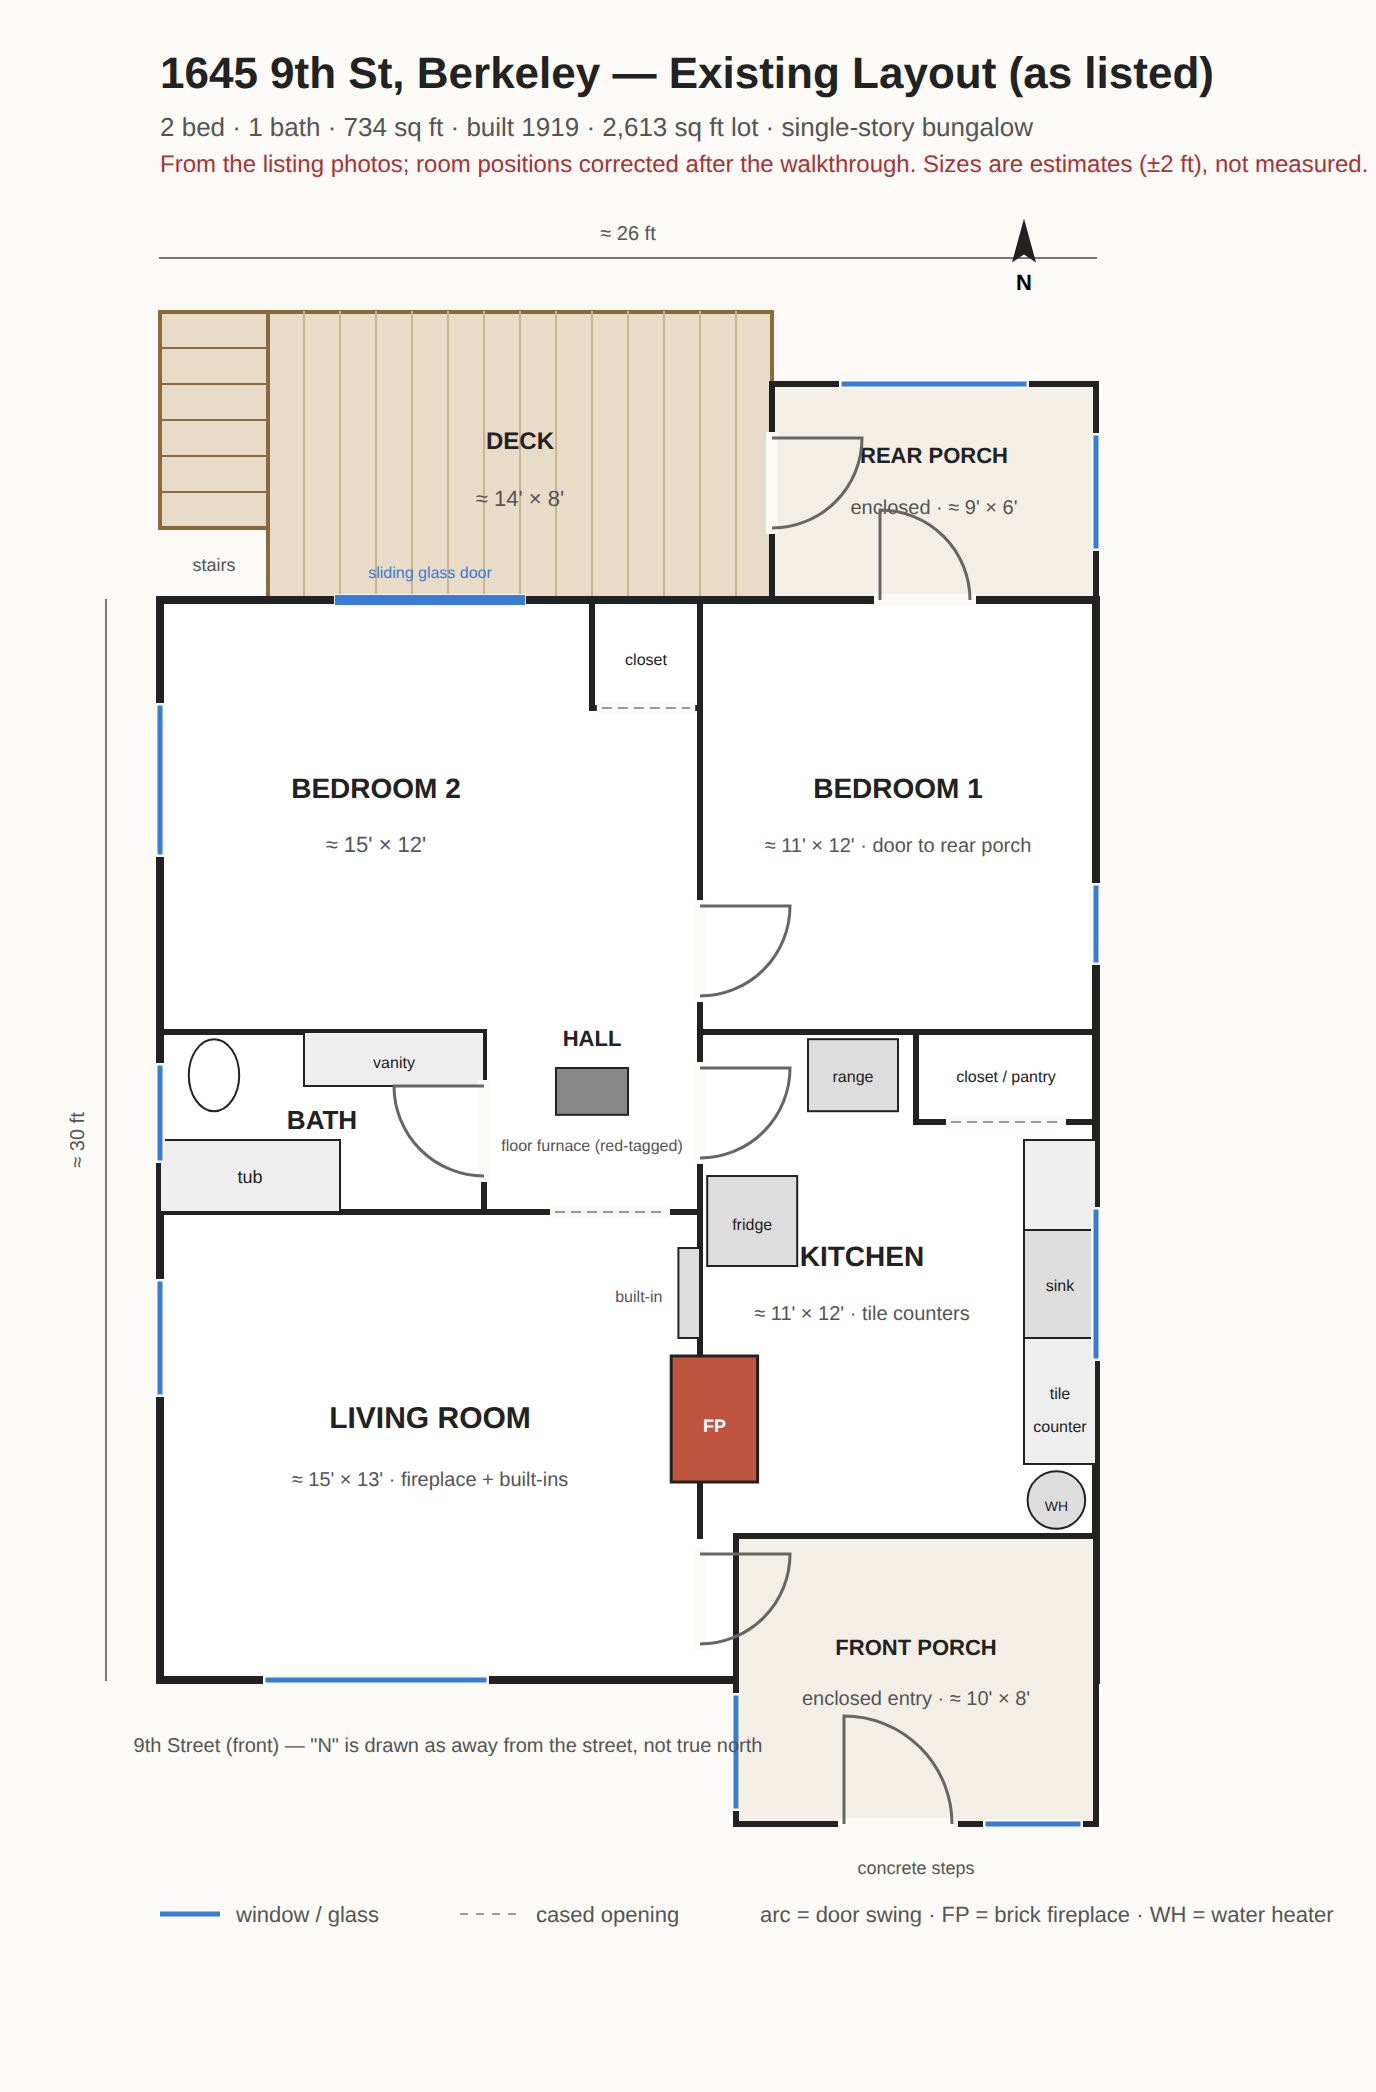
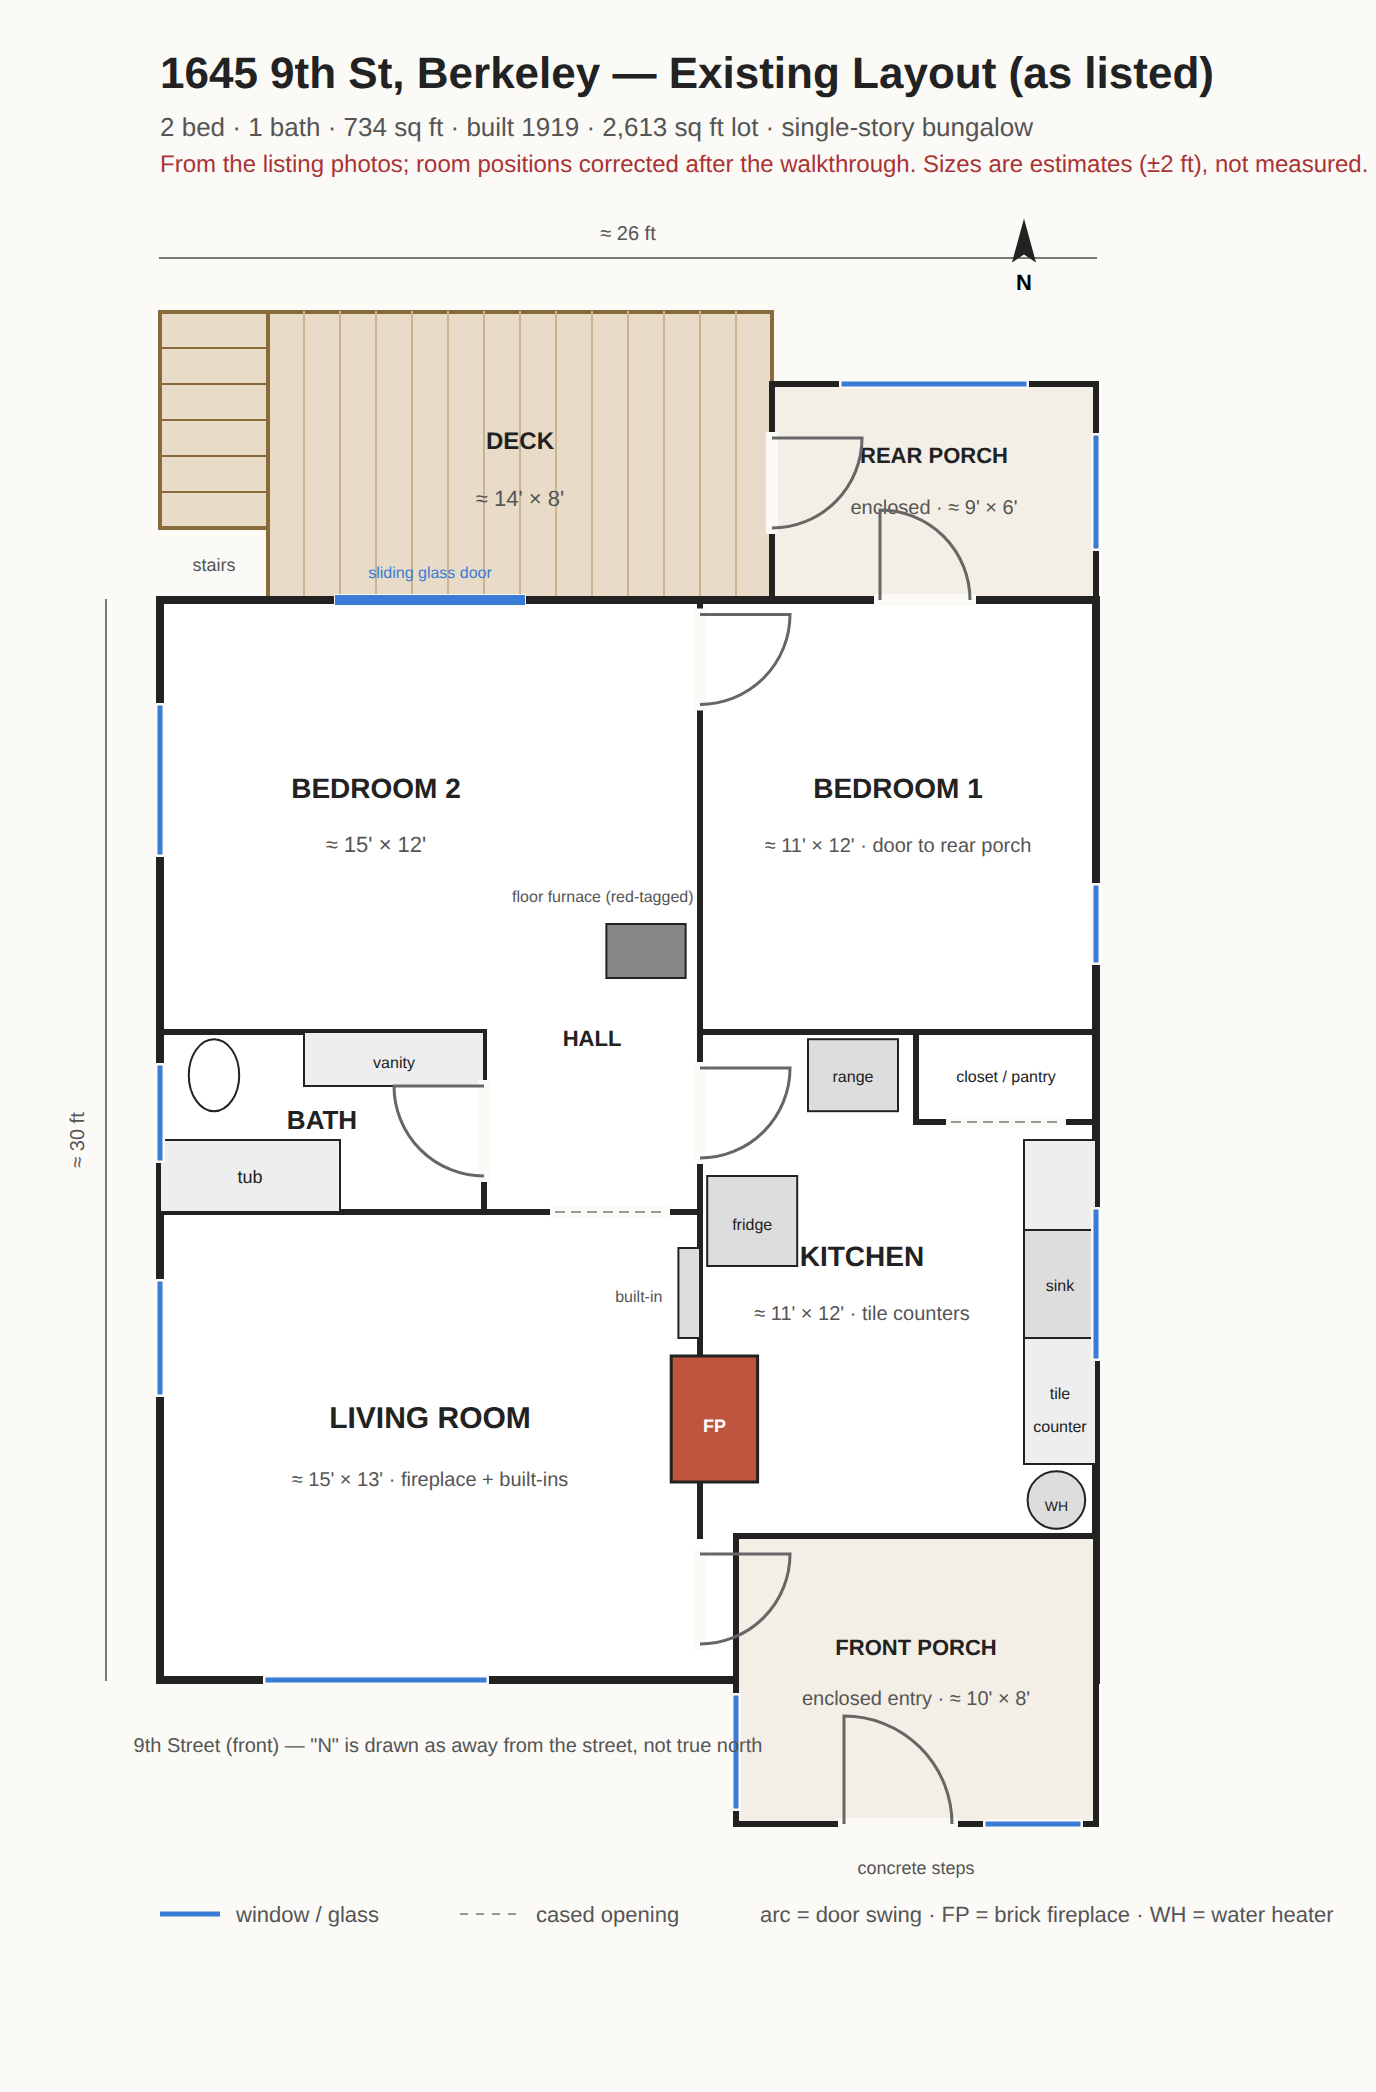
Rear rooms: corner door, furnace in bedroom 2, range on the sink wall
Listing photo 18 shows the door from bedroom 2 to the back room in the
rear-east corner, no closet in that corner, and the floor furnace grate
near bedroom 2's east wall.

- Both sheets: door between the rear rooms moved to the rear corner;
  bedroom 2's first-draft closet removed.
- Existing: floor furnace drawn in bedroom 2, not the hall.
- Proposed: range moved to the west wall with the sink (the corner door
  rules out a back-wall run); bedroom 2's new closet moved to the hall
  wall; mini-splits note moved into the hall.
- CLAUDE.md, index.html updated.

Claude-Session: https://claude.ai/code/session_01QP4ZkLkW7cUrZ9x3HXMY7H

diff --git a/index.html b/index.html
@@ -38,7 +38,7 @@ table{border-collapse:collapse;font-size:14px}td,th{padding:4px 12px 4px 0;text-
 <div class="notes">
 <strong>Proposed changes</strong>
 <ul>
-<li><strong>Kitchen moves to the rear-left room with the slider</strong> so it opens directly onto the deck. Becomes an eat-in kitchen, roughly 15 × 12, sharing a wet wall with the bath.</li>
+<li><strong>Kitchen moves to the rear-left room with the slider</strong> so it opens directly onto the deck. Becomes an eat-in kitchen, roughly 15 × 12, sharing a wet wall with the bath. Sink and range on the west wall; the existing corner door to the back room stays.</li>
 <li><strong>Old kitchen (front-right, roughly 11 × 12) becomes bedroom 1.</strong> The rear-right bedroom stays a bedroom, becomes bedroom 2, roughly 11 × 12, with a closet added. Floor furnace comes out; mini-splits instead.</li>
 <li><strong>Rear porch becomes laundry / mudroom</strong>, still opening onto the deck. Water heater relocates there out of the kitchen. Open question: whether it's entered from bedroom 2, the deck only, or both.</li>
 <li>Living room, bath, hall, and front porch unchanged in this pass.</li>

diff --git a/floor-plan/generate.py b/floor-plan/generate.py
@@ -41,7 +41,7 @@ def build(variant):
     out.append(f'<text x="{OX}" y="68" font-size="13" fill="#555">2 bed · 1 bath · 734 sq ft · built 1919 · 2,613 sq ft lot · single-story bungalow</text>')
     if proposed:
         out.append(f'<text x="{OX}" y="86" font-size="12" fill="#1a7a3c">Change: kitchen moves from the front-right room to the rear-left room with the slider, opening onto the deck.</text>')
-        out.append(f'<text x="{OX}" y="102" font-size="12" fill="#1a7a3c">Old kitchen → bedroom 1. Rear-right stays a bedroom (now 2) with a closet added. Floor furnace out, mini-splits in.</text>')
+        out.append(f'<text x="{OX}" y="102" font-size="12" fill="#1a7a3c">Old kitchen → bedroom 1. Rear-right stays a bedroom (2), closet added. Furnace out, mini-splits in.</text>')
     else:
         out.append(f'<text x="{OX}" y="86" font-size="12" fill="#a33">From the listing photos; room positions corrected after the walkthrough. Sizes are estimates (±2 ft), not measured.</text>')
 
@@ -78,15 +78,14 @@ def build(variant):
     rect(4,12,9,13.5,fill="#eee",stroke="#222",sw=1); label(6.5,13,"vanity",8,False)
     e=P(1.5,13.2); out.append(f'<ellipse cx="{e[0]}" cy="{e[1]}" rx="{0.7*S}" ry="{1*S}" fill="#fff" stroke="#222" stroke-width="1"/>')
     if proposed:
-        label(12,15.3,"furnace out · mini-splits",8,False,"#1a7a3c")
+        label(12,15.3,"floor furnace out · mini-splits",8,False,"#1a7a3c")
     else:
-        rect(11,13,13,14.3,fill="#888",stroke="#222",sw=1); label(12,15.3,"floor furnace (red-tagged)",8,False,"#555")
+        rect(12.4,9,14.6,10.5,fill="#888",stroke="#222",sw=1); label(12.3,8.4,"floor furnace (red-tagged)",8,False,"#555")
     label(4.5,14.7,"BATH",13); label(12,12.4,"HALL",11)
 
     if not proposed:
         # bedroom 2 rear-left with slider; bedroom 1 rear-right; kitchen front-right (per Keith, Sept 9)
-        line(12,0,12,3); line(12,3,15,3); opening(12.3,3,14.7,3); label(13.5,1.8,"closet",8,False)
-        door(15,8.5,2.5,'e'); door(20,0,2.5,'n')
+        door(15,0.4,2.5,'e'); door(20,0,2.5,'n')          # door to the back room is in the rear corner (photo 18)
         line(5,0,10,0,stroke="#fbfaf7",sw=6); line(5,0,10,0,stroke="#3a7bd5",sw=5); label(7.5,-0.6,"sliding glass door",8,False,"#3a7bd5")
         label(6,5.5,"BEDROOM 2",14); label(6,7,"≈ 15' × 12'",11,False,"#555")
         label(20.5,5.5,"BEDROOM 1",14); label(20.5,7,"≈ 11' × 12' · door to rear porch",10,False,"#555")
@@ -100,17 +99,16 @@ def build(variant):
         # kitchen rear-left, eat-in, opens to deck; bedroom 2 rear-right
         line(4,0,11,0,stroke="#fbfaf7",sw=6); line(4,0,11,0,stroke="#3a7bd5",sw=5); label(7.5,-0.6,"sliding / French door to deck",8,False,"#3a7bd5")
         rect(0.2,0.2,2.7,2.7,fill="#ddd",stroke="#222",sw=1); label(1.45,1.7,"fridge",8,False)
-        rect(0.2,3,2,11.5,fill="#eee",stroke="#222",sw=1); label(1.1,7,"counter",7,False)
-        rect(0.2,6,2,8.5,fill="#ddd",stroke="#222",sw=1); label(1.1,7.4,"sink",7,False)
-        rect(11.5,0.2,14.8,2,fill="#eee",stroke="#222",sw=1)
-        rect(12.3,0.2,14.8,2.2,fill="#ddd",stroke="#222",sw=1); label(13.55,1.4,"range",7,False)
+        rect(0.2,3,2,11.5,fill="#eee",stroke="#222",sw=1); label(1.1,4.6,"counter",7,False)
+        rect(0.2,5.5,2,8,fill="#ddd",stroke="#222",sw=1); label(1.1,6.9,"sink",7,False)
+        rect(0.2,9,2.2,11.5,fill="#ddd",stroke="#222",sw=1); label(1.2,10.4,"range",7,False)
         rect(5,4,10,7,fill="#f4e9d0",stroke="#8a6a3a",sw=1); label(7.5,5.8,"table / island",8,False,"#555")
         label(7.5,9.6,"KITCHEN (eat-in)",14); label(7.5,11,"≈ 15' × 12' · opens to deck",10,False,"#555")
         # bedroom 2 (was bedroom 1; gains a closet)
-        door(15,9,2.5,'e')                                      # kitchen -> bedroom 2 (single opening)
-        line(15,3,18,3); line(18,0,18,3); opening(15.3,3,17.7,3); label(16.5,1.8,"closet",8,False)
+        door(15,0.4,2.5,'e')                                    # kitchen -> bedroom 2, existing corner door
+        line(15,9,18,9); line(18,9,18,12); opening(18,9.3,18,11.7); label(16.5,10.7,"closet",8,False)
         door(22,0,2.5,'n')                                      # bedroom 2 -> laundry/mudroom
-        label(20.5,6,"BEDROOM 2",13); label(20.5,7.4,"≈ 11' × 12' · closet added",10,False,"#555")
+        label(21,6,"BEDROOM 2",13); label(21,7.4,"≈ 11' × 12' · closet added",10,False,"#555")
         label(23.8,-0.7,"WH moves here",7,False,"#a33")
     # shared: bedroom 1, living room, doors
     door(9,13.5,2.5,'w'); door(15,13,2.5,'e'); opening(22,14.5,25,14.5); opening(11,17,14,17); door(15,26.5,2.5,'e')

diff --git a/CLAUDE.md b/CLAUDE.md
@@ -32,7 +32,7 @@ Rough photo index:
 - 11 rear enclosed porch (unfinished)
 - 13, 14 bathroom
 - 15, 16, 17 bedroom 1 (rear-right, door to the rear porch)
-- 18, 19, 20 bedroom 2 (rear, sliding door to deck)
+- 18, 19, 20 bedroom 2 (rear, sliding door to deck; door to bedroom 1 in the rear-east corner; floor furnace grate by the east wall)
 
 ## Floor plans
 
@@ -41,15 +41,15 @@ Rough photo index:
 - `floor-plan/generate.py` — generates both SVGs; edit this, run it, then re-export PNGs with headless Chrome (see below)
 - `index.html` — shareable page with an existing/proposed toggle and both photo galleries, published at https://keithmancuso.github.io/1645-9th-st/
 
-The existing plan was reconstructed from the listing photos only, not measured. Treat room sizes as ±2 ft. Layout as drawn: living room front-left with fireplace on the wall shared with the front porch and the kitchen; enclosed front porch front-right; **kitchen behind the porch (front-right, ≈11×12)**; small central hall with a floor furnace; bathroom on the left; **bedroom 1 rear-right (≈11×12) with a door to the rear porch, reached through bedroom 2**; bedroom 2 rear-left with a slider to the deck; unfinished enclosed rear porch off bedroom 1. Bathroom position and door placements are the least certain parts.
+The existing plan was reconstructed from the listing photos only, not measured. Treat room sizes as ±2 ft. Layout as drawn: living room front-left with fireplace on the wall shared with the front porch and the kitchen; enclosed front porch front-right; **kitchen behind the porch (front-right, ≈11×12)**; small central hall; bathroom on the left; **bedroom 1 rear-right (≈11×12) with a door to the rear porch, reached through a door in the rear corner of bedroom 2** (photo 18); bedroom 2 rear-left with a slider to the deck and the floor furnace grate near its east wall; unfinished enclosed rear porch off bedroom 1. Bathroom position and door placements are the least certain parts.
 
-Correction, Sept 9: the first draft had the kitchen and bedroom 1 swapped (kitchen rear-right, bedroom 1 front-right). Keith confirmed after the walkthrough that the front-right room is the kitchen today. Room sizes still need checking against a real plan; none was found in the listing or the disclosure package. The first draft also drew a 2 ft double wall between the two rear rooms; there was no evidence for it, so it is now one wall with a single door.
+Correction, Sept 9: the first draft had the kitchen and bedroom 1 swapped (kitchen rear-right, bedroom 1 front-right). Keith confirmed after the walkthrough that the front-right room is the kitchen today. Room sizes still need checking against a real plan; none was found in the listing or the disclosure package. The first draft also drew a 2 ft double wall between the two rear rooms; there was no evidence for it, so it is now one wall with a single door in the rear corner, where photo 18 shows it. The same photo shows no closet in that corner, so the bedroom 2 closet from the first draft is gone.
 
 ### Proposed changes (as of Sept 9, 2026)
 
 1. **Kitchen moves to the rear-left room with the slider** so it opens directly onto the deck (eat-in, ≈15×12). Reason: don't want to walk through a bedroom to reach the yard. The new kitchen shares its south wall with the bathroom, so the wet wall is shared.
 2. **Old kitchen (front-right, ≈11×12) becomes bedroom 1.** Its plumbing gets abandoned.
-3. **Rear-right bedroom stays a bedroom** and becomes bedroom 2 (≈11×12) with a closet added. As drawn its only door is from the kitchen; a door from the hall would need the hall's east wall opened.
+3. **Rear-right bedroom stays a bedroom** and becomes bedroom 2 (≈11×12) with a closet added on the hall wall. It keeps the existing corner door, which now opens from the kitchen; a door from the hall would need the hall's east wall opened. Range goes on the west wall with the sink; the corner door rules out a run on the back wall.
 4. **Rear porch becomes laundry / mudroom**, still opening onto the deck; water heater relocates there. Open question: entered from bedroom 2, the deck only, or both.
 5. Living room, bath, hall, front porch unchanged in this pass.
 
